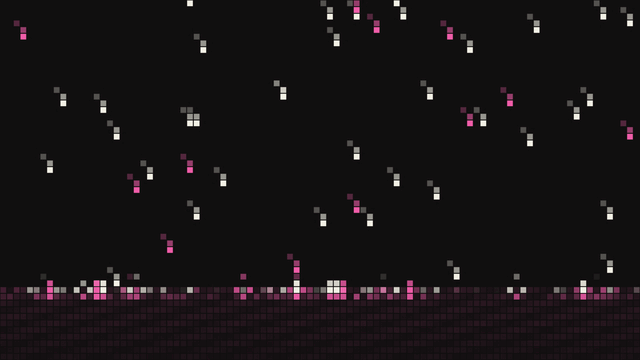
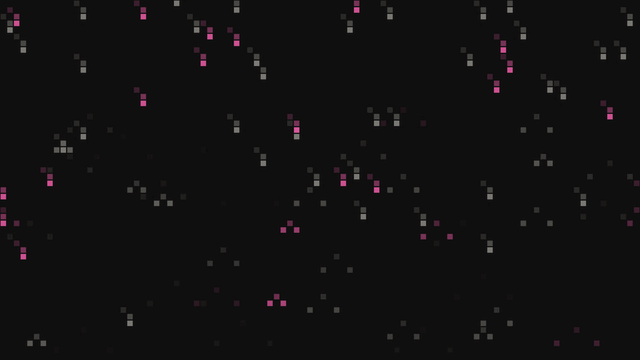
fix(bits): let Pixel Rain land across the whole frame instead of a lake band

diff --git a/src/catalog/inventory.generated.ts b/src/catalog/inventory.generated.ts
@@ -826,7 +826,7 @@ export const sharedBitInventory: SharedBitInventoryEntry[] = [
     "exportName": "PixelRain",
     "id": "pixel-rain",
     "name": "Pixel Rain",
-    "description": "Night-time pixel rain slanting into a still pixel lake, each drop splashing rings across the surface",
+    "description": "Slanting pixel rain that lands and splashes at different depths across the whole frame",
     "tags": [
       "loop",
       "background",
@@ -853,13 +853,13 @@ export const sharedBitInventory: SharedBitInventoryEntry[] = [
       "random",
       "viewport"
     ],
-    "sourceCode": "<!doctype html>\n<html lang=\"en\" data-composition-variables='[{\"id\":\"background\",\"type\":\"color\",\"label\":\"Background\",\"default\":\"#100f0f\"},{\"id\":\"foreground\",\"type\":\"color\",\"label\":\"Foreground\",\"default\":\"#f2f0e5\"},{\"id\":\"accent\",\"type\":\"color\",\"label\":\"Accent\",\"default\":\"#ef5da8\"},{\"id\":\"columns\",\"type\":\"number\",\"label\":\"Columns\",\"default\":96},{\"id\":\"seed\",\"type\":\"number\",\"label\":\"Seed\",\"default\":2}]'>\n  <head>\n    <meta charset=\"UTF-8\" />\n    <meta name=\"viewport\" content=\"width=1920, height=1080\" />\n    <script src=\"https://cdn.jsdelivr.net/npm/gsap@3.14.2/dist/gsap.min.js\"></script>\n    <script src=\"hyperbits.iife.js\" data-hyperbits-src=\"https://unpkg.com/hyperbits/dist/hyperbits.iife.js\" data-hyperbits-local=\"../../../dist/hyperbits.iife.js\"></script>\n    <style>\n      :root {\n        --bg: #100f0f;\n        --fg: #f2f0e5;\n        --accent: #ef5da8;\n      }\n      * {\n        margin: 0;\n        padding: 0;\n        box-sizing: border-box;\n      }\n      html,\n      body {\n        margin: 0;\n        width: 1920px;\n        height: 1080px;\n        overflow: hidden;\n        background-color: #100f0f;\n      }\n      #root {\n        width: 100%;\n        height: 100%;\n        position: relative;\n        overflow: hidden;\n      }\n      #stage {\n        position: absolute;\n        inset: 0;\n        width: 100%;\n        height: 100%;\n        z-index: 1;\n      }\n    </style>\n  </head>\n  <body>\n    <div\n      id=\"root\"\n      class=\"clip\"\n      data-composition-id=\"pixel-rain\"\n      data-start=\"0\"\n      data-duration=\"12\"\n      data-width=\"1920\"\n      data-height=\"1080\"\n    >\n      <div id=\"bg\" class=\"clip\" data-start=\"0\" data-duration=\"12\" style=\"position:absolute;inset:0;background-color:#100f0f\"></div>\n      <canvas id=\"stage\" class=\"clip\" data-start=\"0\" data-duration=\"12\"></canvas>\n    </div>\n    <script>\n      (function () {\n\n        function bitVars() {\n          if (window.__hyperframes && typeof window.__hyperframes.getVariables === \"function\") {\n            return window.__hyperframes.getVariables();\n          }\n          const raw = document.documentElement.getAttribute(\"data-composition-variables\") || \"[]\";\n          const decls = JSON.parse(raw);\n          const values = {};\n          for (const entry of decls) values[entry.id] = entry.default;\n          return values;\n        }\n        function registerTimeline(compositionId, timeline) {\n          window.__timelines = window.__timelines || {};\n          window.__timelines[compositionId] = timeline;\n          timeline.seek(0);\n        }\n\n\n        const vars = bitVars();\n        const root = document.getElementById(\"root\");\n        const bg = document.getElementById(\"bg\");\n        const canvas = document.getElementById(\"stage\");\n        const view = hyperbits.viewport(root);\n        bg.style.backgroundColor = vars.background;\n        canvas.width = view.width;\n        canvas.height = view.height;\n        const context = canvas.getContext(\"2d\");\n        const loop = 12;\n        const turn = Math.PI * 2;\n        function channels(color) {\n          const parts = hyperbits.mixOklch(String(color), String(color), 0, \"rgb(0, 0, 0)\").match(/[0-9.]+/g) || [0, 0, 0];\n          return parts.slice(0, 3).map(Number);\n        }\n        function rgba(rgb, alpha) {\n          return \"rgba(\" + rgb[0] + \", \" + rgb[1] + \", \" + rgb[2] + \", \" + Math.min(Math.max(alpha, 0), 1) + \")\";\n        }\n        function mix(from, to, amount) {\n          return from.map((value, index) => Math.round(value + (to[index] - value) * amount));\n        }\n        const background = channels(vars.background);\n        const foreground = channels(vars.foreground);\n        const accent = channels(vars.accent);\n        const water = mix(accent, background, 0.8);\n        const columns = Math.max(16, Math.round(Number(vars.columns) || 96));\n        const seed = Number(vars.seed) || 0;\n        const cell = view.width / columns;\n        const rows = Math.ceil(view.height / cell);\n        const surface = Math.round(rows * 0.8);\n        const block = cell * 0.86;\n        const drops = [...Array(Math.round(columns * 1.5)).keys()].map((index) => {\n          const key = \"drop-\" + seed + \"-\" + index;\n          return {\n            column: hyperbits.randomInt(key + \"-c\", 0, columns - 1),\n            start: hyperbits.randomInt(key + \"-s\", -16, -2),\n            offset: hyperbits.random(key + \"-o\"),\n            laps: hyperbits.pick(key + \"-l\", [1, 2, 2, 3]),\n            bright: hyperbits.random(key + \"-b\") > 0.7,\n          };\n        });\n        function pixel(column, row, color, alpha) {\n          if (row < 0 || row >= rows || alpha <= 0.01) return;\n          const wrapped = ((column % columns) + columns) % columns;\n          context.fillStyle = rgba(color, alpha);\n          context.fillRect(wrapped * cell + (cell - block) / 2, row * cell + (cell - block) / 2, block, block);\n        }\n        function draw(phase) {\n          if (!context || typeof context.stroke !== \"function\") return;\n          context.clearRect(0, 0, view.width, view.height);\n          for (let row = surface; row < rows; row += 1) {\n            for (let column = 0; column < columns; column += 1) {\n              const shimmer = 0.5 + 0.5 * Math.sin(turn * (phase * 2 + column * 0.11 + (row - surface) * 0.35));\n              pixel(column, row, water, (0.2 + 0.45 * shimmer) * (1 - 0.6 * (row - surface) / (rows - surface)));\n            }\n          }\n          for (const drop of drops) {\n            const progress = (((drop.offset + phase * drop.laps) % 1) + 1) % 1;\n            const color = drop.bright ? accent : foreground;\n            if (progress < 0.62) {\n              const fall = Math.pow(progress / 0.62, 2);\n              const row = Math.floor(drop.start + (surface - drop.start) * fall);\n              const drift = Math.floor((row - drop.start) * 0.35);\n              pixel(drop.column + drift, row, color, 1);\n              pixel(drop.column + drift, row - 1, color, 0.6);\n              pixel(drop.column + drift - 1, row - 2, color, 0.3);\n            } else {\n              const splash = (progress - 0.62) / 0.38;\n              const drift = Math.floor((surface - drop.start) * 0.35);\n              const reach = Math.floor(splash * 7);\n              const alpha = Math.pow(1 - splash, 1.5);\n              pixel(drop.column + drift - reach, surface, color, alpha);\n              pixel(drop.column + drift + reach, surface, color, alpha);\n              if (splash < 0.35) pixel(drop.column + drift, surface - 1 - Math.floor(splash * 6), color, 1 - splash / 0.35);\n              pixel(drop.column + drift - Math.floor(reach / 2), surface + 1, accent, alpha * 0.6);\n              pixel(drop.column + drift + Math.floor(reach / 2), surface + 1, accent, alpha * 0.6);\n            }\n          }\n        }\n        const proxy = { time: 0 };\n        const timeline = gsap.timeline({ paused: true });\n        timeline.to(proxy, { time: loop, duration: loop, ease: \"none\", onUpdate: () => draw((proxy.time % loop) / loop) }, 0);\n        draw(0);\n        registerTimeline(\"pixel-rain\", timeline);\n\n      })();\n    </script>\n  </body>\n</html>\n",
+    "sourceCode": "<!doctype html>\n<html lang=\"en\" data-composition-variables='[{\"id\":\"background\",\"type\":\"color\",\"label\":\"Background\",\"default\":\"#100f0f\"},{\"id\":\"foreground\",\"type\":\"color\",\"label\":\"Foreground\",\"default\":\"#f2f0e5\"},{\"id\":\"accent\",\"type\":\"color\",\"label\":\"Accent\",\"default\":\"#ef5da8\"},{\"id\":\"columns\",\"type\":\"number\",\"label\":\"Columns\",\"default\":96},{\"id\":\"seed\",\"type\":\"number\",\"label\":\"Seed\",\"default\":2}]'>\n  <head>\n    <meta charset=\"UTF-8\" />\n    <meta name=\"viewport\" content=\"width=1920, height=1080\" />\n    <script src=\"https://cdn.jsdelivr.net/npm/gsap@3.14.2/dist/gsap.min.js\"></script>\n    <script src=\"hyperbits.iife.js\" data-hyperbits-src=\"https://unpkg.com/hyperbits/dist/hyperbits.iife.js\" data-hyperbits-local=\"../../../dist/hyperbits.iife.js\"></script>\n    <style>\n      :root {\n        --bg: #100f0f;\n        --fg: #f2f0e5;\n        --accent: #ef5da8;\n      }\n      * {\n        margin: 0;\n        padding: 0;\n        box-sizing: border-box;\n      }\n      html,\n      body {\n        margin: 0;\n        width: 1920px;\n        height: 1080px;\n        overflow: hidden;\n        background-color: #100f0f;\n      }\n      #root {\n        width: 100%;\n        height: 100%;\n        position: relative;\n        overflow: hidden;\n      }\n      #stage {\n        position: absolute;\n        inset: 0;\n        width: 100%;\n        height: 100%;\n        z-index: 1;\n      }\n    </style>\n  </head>\n  <body>\n    <div\n      id=\"root\"\n      class=\"clip\"\n      data-composition-id=\"pixel-rain\"\n      data-start=\"0\"\n      data-duration=\"12\"\n      data-width=\"1920\"\n      data-height=\"1080\"\n    >\n      <div id=\"bg\" class=\"clip\" data-start=\"0\" data-duration=\"12\" style=\"position:absolute;inset:0;background-color:#100f0f\"></div>\n      <canvas id=\"stage\" class=\"clip\" data-start=\"0\" data-duration=\"12\"></canvas>\n    </div>\n    <script>\n      (function () {\n\n        function bitVars() {\n          if (window.__hyperframes && typeof window.__hyperframes.getVariables === \"function\") {\n            return window.__hyperframes.getVariables();\n          }\n          const raw = document.documentElement.getAttribute(\"data-composition-variables\") || \"[]\";\n          const decls = JSON.parse(raw);\n          const values = {};\n          for (const entry of decls) values[entry.id] = entry.default;\n          return values;\n        }\n        function registerTimeline(compositionId, timeline) {\n          window.__timelines = window.__timelines || {};\n          window.__timelines[compositionId] = timeline;\n          timeline.seek(0);\n        }\n\n\n        const vars = bitVars();\n        const root = document.getElementById(\"root\");\n        const bg = document.getElementById(\"bg\");\n        const canvas = document.getElementById(\"stage\");\n        const view = hyperbits.viewport(root);\n        bg.style.backgroundColor = vars.background;\n        canvas.width = view.width;\n        canvas.height = view.height;\n        const context = canvas.getContext(\"2d\");\n        const loop = 12;\n        const turn = Math.PI * 2;\n        function channels(color) {\n          const parts = hyperbits.mixOklch(String(color), String(color), 0, \"rgb(0, 0, 0)\").match(/[0-9.]+/g) || [0, 0, 0];\n          return parts.slice(0, 3).map(Number);\n        }\n        function rgba(rgb, alpha) {\n          return \"rgba(\" + rgb[0] + \", \" + rgb[1] + \", \" + rgb[2] + \", \" + Math.min(Math.max(alpha, 0), 1) + \")\";\n        }\n        function mix(from, to, amount) {\n          return from.map((value, index) => Math.round(value + (to[index] - value) * amount));\n        }\n        const background = channels(vars.background);\n        const foreground = channels(vars.foreground);\n        const accent = channels(vars.accent);\n        const muted = mix(foreground, background, 0.45);\n        const columns = Math.max(16, Math.round(Number(vars.columns) || 96));\n        const seed = Number(vars.seed) || 0;\n        const cell = view.width / columns;\n        const rows = Math.ceil(view.height / cell);\n        const block = cell * 0.82;\n        const drops = [...Array(Math.round(columns * 1.3)).keys()].map((index) => {\n          const key = \"drop-\" + seed + \"-\" + index;\n          return {\n            column: hyperbits.randomInt(key + \"-c\", 0, columns - 1),\n            start: hyperbits.randomInt(key + \"-s\", -14, -2),\n            land: Math.round(rows * hyperbits.randomFloat(key + \"-g\", 0.2, 0.98)),\n            offset: hyperbits.random(key + \"-o\"),\n            laps: hyperbits.pick(key + \"-l\", [1, 1, 2]),\n            bright: hyperbits.random(key + \"-b\") > 0.75,\n          };\n        });\n        function pixel(column, row, color, alpha) {\n          if (row < 0 || row >= rows || alpha <= 0.01) return;\n          const wrapped = ((column % columns) + columns) % columns;\n          context.fillStyle = rgba(color, alpha);\n          context.fillRect(wrapped * cell + (cell - block) / 2, row * cell + (cell - block) / 2, block, block);\n        }\n        function draw(phase) {\n          if (!context || typeof context.stroke !== \"function\") return;\n          context.clearRect(0, 0, view.width, view.height);\n          for (const drop of drops) {\n            const progress = (((drop.offset + phase * drop.laps) % 1) + 1) % 1;\n            const color = drop.bright ? accent : muted;\n            const fallShare = 0.7;\n            if (progress < fallShare) {\n              const fall = Math.pow(progress / fallShare, 1.6);\n              const row = Math.floor(drop.start + (drop.land - drop.start) * fall);\n              const drift = Math.floor((row - drop.start) * 0.3);\n              pixel(drop.column + drift, row, color, 0.85);\n              pixel(drop.column + drift, row - 1, color, 0.45);\n              pixel(drop.column + drift - 1, row - 2, color, 0.2);\n            } else {\n              const splash = (progress - fallShare) / (1 - fallShare);\n              const drift = Math.floor((drop.land - drop.start) * 0.3);\n              const reach = 1 + Math.floor(splash * 4);\n              const alpha = 0.7 * Math.pow(1 - splash, 1.5);\n              pixel(drop.column + drift - reach, drop.land, color, alpha);\n              pixel(drop.column + drift + reach, drop.land, color, alpha);\n              pixel(drop.column + drift, drop.land - Math.floor(reach / 2) - 1, color, alpha * 0.6);\n            }\n          }\n        }\n        const proxy = { time: 0 };\n        const timeline = gsap.timeline({ paused: true });\n        timeline.to(proxy, { time: loop, duration: loop, ease: \"none\", onUpdate: () => draw((proxy.time % loop) / loop) }, 0);\n        draw(0);\n        registerTimeline(\"pixel-rain\", timeline);\n\n      })();\n    </script>\n  </body>\n</html>\n",
     "registry": {
       "$schema": "https://hyperframes.heygen.com/schema/registry-item.json",
       "name": "pixel-rain",
       "type": "hyperframes:block",
       "title": "Pixel Rain",
-      "description": "Night-time pixel rain slanting into a still pixel lake, each drop splashing rings across the surface",
+      "description": "Slanting pixel rain that lands and splashes at different depths across the whole frame",
       "tags": [
         "loop",
         "background",

diff --git a/bits/motion-loops/pixel-rain/index.html b/bits/motion-loops/pixel-rain/index.html
@@ -96,21 +96,21 @@
         const background = channels(vars.background);
         const foreground = channels(vars.foreground);
         const accent = channels(vars.accent);
-        const water = mix(accent, background, 0.8);
+        const muted = mix(foreground, background, 0.45);
         const columns = Math.max(16, Math.round(Number(vars.columns) || 96));
         const seed = Number(vars.seed) || 0;
         const cell = view.width / columns;
         const rows = Math.ceil(view.height / cell);
-        const surface = Math.round(rows * 0.8);
-        const block = cell * 0.86;
-        const drops = [...Array(Math.round(columns * 1.5)).keys()].map((index) => {
+        const block = cell * 0.82;
+        const drops = [...Array(Math.round(columns * 1.3)).keys()].map((index) => {
           const key = "drop-" + seed + "-" + index;
           return {
             column: hyperbits.randomInt(key + "-c", 0, columns - 1),
-            start: hyperbits.randomInt(key + "-s", -16, -2),
+            start: hyperbits.randomInt(key + "-s", -14, -2),
+            land: Math.round(rows * hyperbits.randomFloat(key + "-g", 0.2, 0.98)),
             offset: hyperbits.random(key + "-o"),
-            laps: hyperbits.pick(key + "-l", [1, 2, 2, 3]),
-            bright: hyperbits.random(key + "-b") > 0.7,
+            laps: hyperbits.pick(key + "-l", [1, 1, 2]),
+            bright: hyperbits.random(key + "-b") > 0.75,
           };
         });
         function pixel(column, row, color, alpha) {
@@ -122,32 +122,25 @@
         function draw(phase) {
           if (!context || typeof context.stroke !== "function") return;
           context.clearRect(0, 0, view.width, view.height);
-          for (let row = surface; row < rows; row += 1) {
-            for (let column = 0; column < columns; column += 1) {
-              const shimmer = 0.5 + 0.5 * Math.sin(turn * (phase * 2 + column * 0.11 + (row - surface) * 0.35));
-              pixel(column, row, water, (0.2 + 0.45 * shimmer) * (1 - 0.6 * (row - surface) / (rows - surface)));
-            }
-          }
           for (const drop of drops) {
             const progress = (((drop.offset + phase * drop.laps) % 1) + 1) % 1;
-            const color = drop.bright ? accent : foreground;
-            if (progress < 0.62) {
-              const fall = Math.pow(progress / 0.62, 2);
-              const row = Math.floor(drop.start + (surface - drop.start) * fall);
-              const drift = Math.floor((row - drop.start) * 0.35);
-              pixel(drop.column + drift, row, color, 1);
-              pixel(drop.column + drift, row - 1, color, 0.6);
-              pixel(drop.column + drift - 1, row - 2, color, 0.3);
+            const color = drop.bright ? accent : muted;
+            const fallShare = 0.7;
+            if (progress < fallShare) {
+              const fall = Math.pow(progress / fallShare, 1.6);
+              const row = Math.floor(drop.start + (drop.land - drop.start) * fall);
+              const drift = Math.floor((row - drop.start) * 0.3);
+              pixel(drop.column + drift, row, color, 0.85);
+              pixel(drop.column + drift, row - 1, color, 0.45);
+              pixel(drop.column + drift - 1, row - 2, color, 0.2);
             } else {
-              const splash = (progress - 0.62) / 0.38;
-              const drift = Math.floor((surface - drop.start) * 0.35);
-              const reach = Math.floor(splash * 7);
-              const alpha = Math.pow(1 - splash, 1.5);
-              pixel(drop.column + drift - reach, surface, color, alpha);
-              pixel(drop.column + drift + reach, surface, color, alpha);
-              if (splash < 0.35) pixel(drop.column + drift, surface - 1 - Math.floor(splash * 6), color, 1 - splash / 0.35);
-              pixel(drop.column + drift - Math.floor(reach / 2), surface + 1, accent, alpha * 0.6);
-              pixel(drop.column + drift + Math.floor(reach / 2), surface + 1, accent, alpha * 0.6);
+              const splash = (progress - fallShare) / (1 - fallShare);
+              const drift = Math.floor((drop.land - drop.start) * 0.3);
+              const reach = 1 + Math.floor(splash * 4);
+              const alpha = 0.7 * Math.pow(1 - splash, 1.5);
+              pixel(drop.column + drift - reach, drop.land, color, alpha);
+              pixel(drop.column + drift + reach, drop.land, color, alpha);
+              pixel(drop.column + drift, drop.land - Math.floor(reach / 2) - 1, color, alpha * 0.6);
             }
           }
         }

diff --git a/docs/public/blocks/pixel-rain/index.html b/docs/public/blocks/pixel-rain/index.html
@@ -96,21 +96,21 @@
         const background = channels(vars.background);
         const foreground = channels(vars.foreground);
         const accent = channels(vars.accent);
-        const water = mix(accent, background, 0.8);
+        const muted = mix(foreground, background, 0.45);
         const columns = Math.max(16, Math.round(Number(vars.columns) || 96));
         const seed = Number(vars.seed) || 0;
         const cell = view.width / columns;
         const rows = Math.ceil(view.height / cell);
-        const surface = Math.round(rows * 0.8);
-        const block = cell * 0.86;
-        const drops = [...Array(Math.round(columns * 1.5)).keys()].map((index) => {
+        const block = cell * 0.82;
+        const drops = [...Array(Math.round(columns * 1.3)).keys()].map((index) => {
           const key = "drop-" + seed + "-" + index;
           return {
             column: hyperbits.randomInt(key + "-c", 0, columns - 1),
-            start: hyperbits.randomInt(key + "-s", -16, -2),
+            start: hyperbits.randomInt(key + "-s", -14, -2),
+            land: Math.round(rows * hyperbits.randomFloat(key + "-g", 0.2, 0.98)),
             offset: hyperbits.random(key + "-o"),
-            laps: hyperbits.pick(key + "-l", [1, 2, 2, 3]),
-            bright: hyperbits.random(key + "-b") > 0.7,
+            laps: hyperbits.pick(key + "-l", [1, 1, 2]),
+            bright: hyperbits.random(key + "-b") > 0.75,
           };
         });
         function pixel(column, row, color, alpha) {
@@ -122,32 +122,25 @@
         function draw(phase) {
           if (!context || typeof context.stroke !== "function") return;
           context.clearRect(0, 0, view.width, view.height);
-          for (let row = surface; row < rows; row += 1) {
-            for (let column = 0; column < columns; column += 1) {
-              const shimmer = 0.5 + 0.5 * Math.sin(turn * (phase * 2 + column * 0.11 + (row - surface) * 0.35));
-              pixel(column, row, water, (0.2 + 0.45 * shimmer) * (1 - 0.6 * (row - surface) / (rows - surface)));
-            }
-          }
           for (const drop of drops) {
             const progress = (((drop.offset + phase * drop.laps) % 1) + 1) % 1;
-            const color = drop.bright ? accent : foreground;
-            if (progress < 0.62) {
-              const fall = Math.pow(progress / 0.62, 2);
-              const row = Math.floor(drop.start + (surface - drop.start) * fall);
-              const drift = Math.floor((row - drop.start) * 0.35);
-              pixel(drop.column + drift, row, color, 1);
-              pixel(drop.column + drift, row - 1, color, 0.6);
-              pixel(drop.column + drift - 1, row - 2, color, 0.3);
+            const color = drop.bright ? accent : muted;
+            const fallShare = 0.7;
+            if (progress < fallShare) {
+              const fall = Math.pow(progress / fallShare, 1.6);
+              const row = Math.floor(drop.start + (drop.land - drop.start) * fall);
+              const drift = Math.floor((row - drop.start) * 0.3);
+              pixel(drop.column + drift, row, color, 0.85);
+              pixel(drop.column + drift, row - 1, color, 0.45);
+              pixel(drop.column + drift - 1, row - 2, color, 0.2);
             } else {
-              const splash = (progress - 0.62) / 0.38;
-              const drift = Math.floor((surface - drop.start) * 0.35);
-              const reach = Math.floor(splash * 7);
-              const alpha = Math.pow(1 - splash, 1.5);
-              pixel(drop.column + drift - reach, surface, color, alpha);
-              pixel(drop.column + drift + reach, surface, color, alpha);
-              if (splash < 0.35) pixel(drop.column + drift, surface - 1 - Math.floor(splash * 6), color, 1 - splash / 0.35);
-              pixel(drop.column + drift - Math.floor(reach / 2), surface + 1, accent, alpha * 0.6);
-              pixel(drop.column + drift + Math.floor(reach / 2), surface + 1, accent, alpha * 0.6);
+              const splash = (progress - fallShare) / (1 - fallShare);
+              const drift = Math.floor((drop.land - drop.start) * 0.3);
+              const reach = 1 + Math.floor(splash * 4);
+              const alpha = 0.7 * Math.pow(1 - splash, 1.5);
+              pixel(drop.column + drift - reach, drop.land, color, alpha);
+              pixel(drop.column + drift + reach, drop.land, color, alpha);
+              pixel(drop.column + drift, drop.land - Math.floor(reach / 2) - 1, color, alpha * 0.6);
             }
           }
         }

diff --git a/docs/src/lib/bits.generated.ts b/docs/src/lib/bits.generated.ts
@@ -362,7 +362,7 @@ export const docsBits: DocsBit[] = [
     "id": "pixel-rain",
     "name": "Pixel Rain",
     "title": "Pixel Rain",
-    "description": "Night-time pixel rain slanting into a still pixel lake, each drop splashing rings across the surface",
+    "description": "Slanting pixel rain that lands and splashes at different depths across the whole frame",
     "category": "motion-loops",
     "categoryLabel": "Motion Loops",
     "tags": [

diff --git a/skills/hyperbits/references/bits.md b/skills/hyperbits/references/bits.md
@@ -554,7 +554,7 @@ A meadow of small paper pinwheels in receding rows filling the frame, turning sl
 
 ### `pixel-rain`
 
-Night-time pixel rain slanting into a still pixel lake, each drop splashing rings across the surface
+Slanting pixel rain that lands and splashes at different depths across the whole frame
 
 - Path: `bits/motion-loops/pixel-rain/index.html`
 - Title: Pixel Rain
